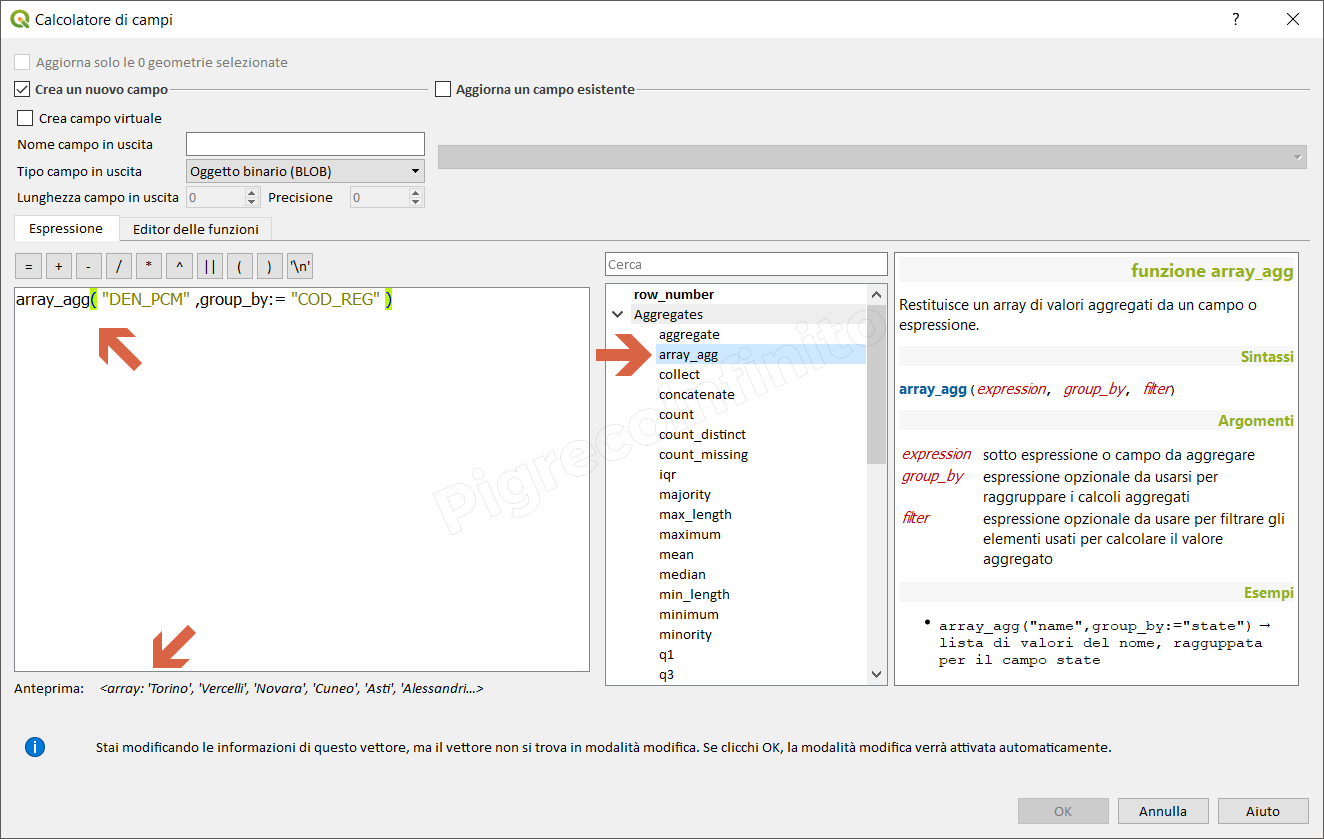
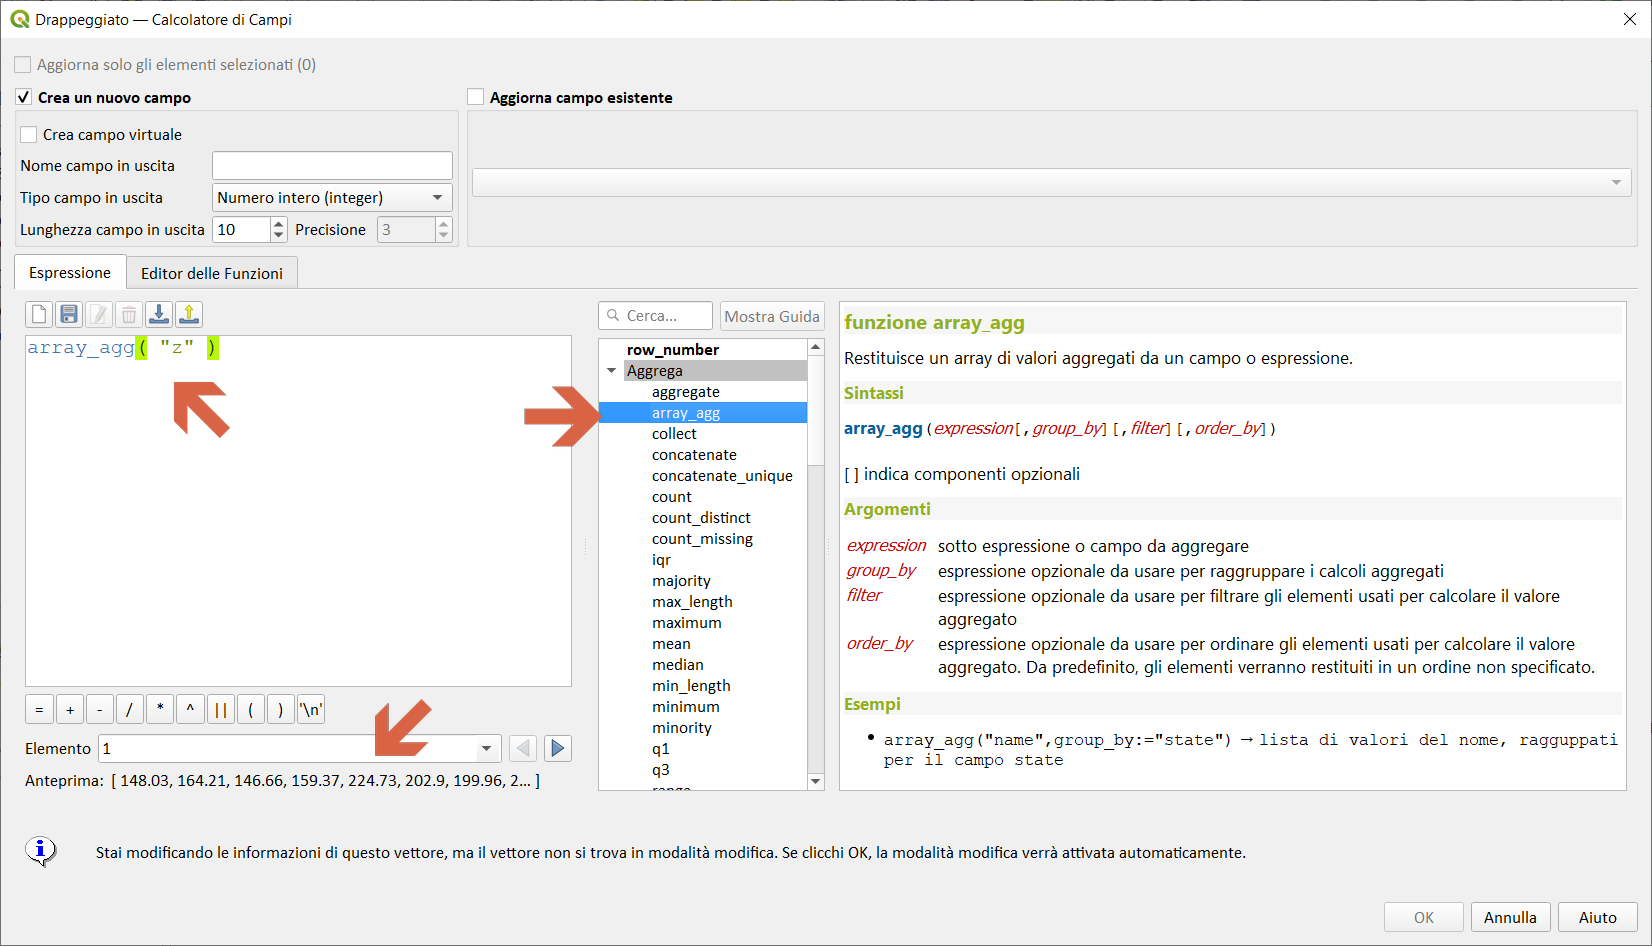
update array_agg

diff --git a/esempi/README.md b/esempi/README.md
@@ -46,5 +46,8 @@ nro|Esempio|Descrizione|Autore
 42|[etichette_formattate_diversi_stili](./es/etichette_formattate_diversi_stili.md)|Etichette formattate con diversi stili|Valerio Pinna
 43|[Selezionare vertici duplicati](./es/select_duplicate_vertices.md)|Selezionare vertici duplicati|Pigreco
 44|[Conteggio caratteri diversi](./es/conteggio_caratteri_diversi.md)|Conta i caratteri diversi in un testo|Pigreco
-45|[Lunghezza minima tra due vettori](./es/linea_min_distanza2.md)|Lunghezza della linea di minima distanza tra due vettori|Pigreco
+45|[Distanza minima tra due vettori](./es/linea_min_distanza2.md)|Lunghezza della linea di minima distanza tra due vettori|Pigreco
 46|[Lunghezze segmenti di un poligono](./es/lunghezze_segmenti_poligono.md)|Lunghezze dei segmenti di un poligono|Pigreco
+47|[Fill-down con QGIS](./es/fill-down.md)|riempire le celle sottostanti con il primo valore non nullo|Pigreco
+48|[Finestra temporale](./es/finestra_temporale.md)|Fissata una data, calcolare la somma di un attributo relativo ai 6 giorni precedenti|Pigreco
+49|[Rotazione simbolo parallelo ad una linea](./es/rotazione_simbolo_parallelo_linea.md)|Lunghezze dei segmenti di un poligono|Pigreco

diff --git a/gr_funzioni/aggregates/funzioni/array_agg.md b/gr_funzioni/aggregates/funzioni/array_agg.md
@@ -4,13 +4,17 @@ Restituisce un array di valori aggregati da un campo o espressione.
 
 ## Sintassi
 
-array_agg(_expression, group_by, filter_)
+array_agg(expression[,group_by][,filter][,order_by])
+
+[ ] indica componenti opzionali
 
 ## Argomenti
 
 * _expression_ sotto espressione o campo da aggregare
 * _group_by_ espressione opzionale da usarsi per raggruppare i calcoli aggregati
 * _filter_ espressione opzionale da usare per filtrare gli elementi usati per calcolare il valore aggregato
+* _order_by_ espressione opzionale da usare per ordinare gli elementi usati per calcolare il valore aggregato. Da predefinito, gli elementi verranno restituiti in un ordine non specificato.
+
 
 ## Esempi
 
@@ -20,7 +24,10 @@ array_agg(_expression, group_by, filter_)
 
 ## nota bene
 
---
+Per prendere un valore specifico dell'array: 
+- `array_agg("z")[0]` → 148,03 è il primo valore dell'array, indice 0;
+- `array_agg("z")[1]` → 164,21 è il secondo valore dell'array, indice 1;
+- ecc...
 
 ## osservazioni
 
